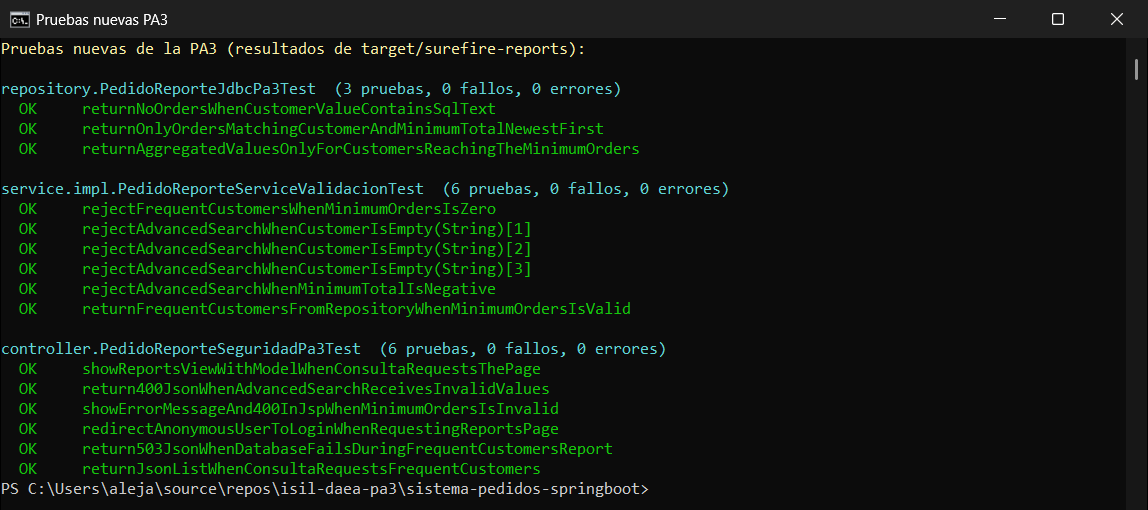
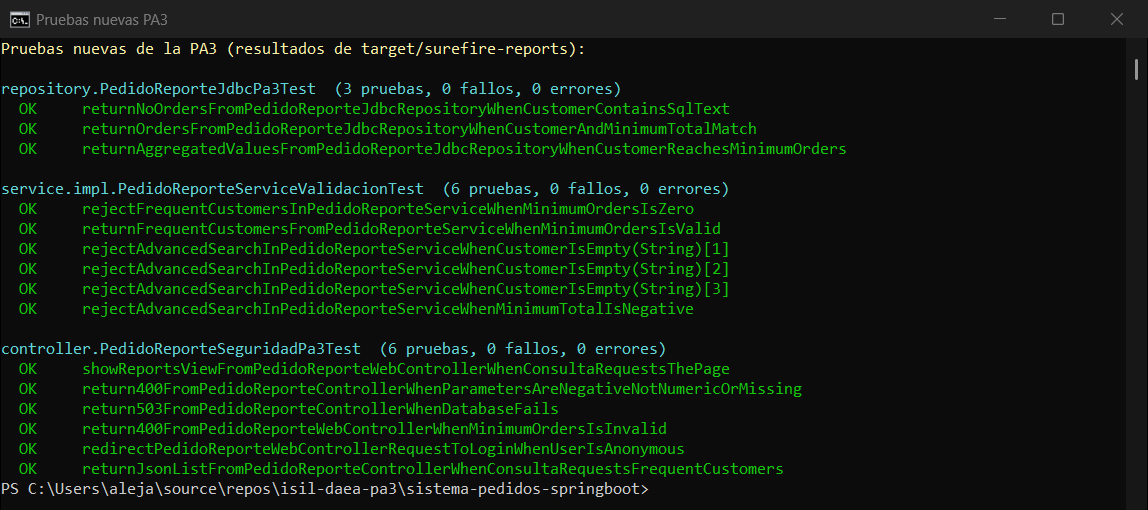
test(pa3): nombres con accion, clase probada y condicion; AAA en pruebas de seguridad
Nuevas capturas de mvn test con los nombres actualizados.

diff --git a/sistema-pedidos-springboot/src/test/java/com/isil/edu/pe/spedidos/controller/PedidoReporteSeguridadPa3Test.java b/sistema-pedidos-springboot/src/test/java/com/isil/edu/pe/spedidos/controller/PedidoReporteSeguridadPa3Test.java
@@ -21,6 +21,7 @@ import org.springframework.dao.DataAccessResourceFailureException;
 import org.springframework.test.context.ActiveProfiles;
 import org.springframework.test.context.bean.override.mockito.MockitoSpyBean;
 import org.springframework.test.web.servlet.MockMvc;
+import org.springframework.test.web.servlet.ResultActions;
 import org.springframework.test.web.servlet.setup.MockMvcBuilders;
 import org.springframework.web.context.WebApplicationContext;
 
@@ -43,73 +44,94 @@ class PedidoReporteSeguridadPa3Test {
   }
 
   @Test
-  @DisplayName("Show reports view with model when CONSULTA requests the page")
-  void showReportsViewWithModelWhenConsultaRequestsThePage() throws Exception {
-    // Arrange / Act / Assert
-    mockMvc.perform(get("/reportes/pedidos").param("minPedidos", "2").with(user("consulta").roles("CONSULTA")))
-        .andExpect(status().isOk())
+  @DisplayName("Show reports view from PedidoReporteWebController when CONSULTA requests the page")
+  void showReportsViewFromPedidoReporteWebControllerWhenConsultaRequestsThePage() throws Exception {
+    // Arrange / Act
+    ResultActions response = mockMvc.perform(get("/reportes/pedidos")
+        .param("minPedidos", "2")
+        .with(user("consulta").roles("CONSULTA")));
+
+    // Assert
+    response.andExpect(status().isOk())
         .andExpect(forwardedUrl("/WEB-INF/views/reportes-pedidos.jsp"))
         .andExpect(model().attributeExists("resumen", "clientesFrecuentes"));
   }
 
   @Test
-  @DisplayName("Redirect anonymous user to login when requesting reports page")
-  void redirectAnonymousUserToLoginWhenRequestingReportsPage() throws Exception {
-    // Arrange / Act / Assert: el servicio no se ejecuta, seguridad corta antes.
-    mockMvc.perform(get("/reportes/pedidos"))
-        .andExpect(status().is3xxRedirection())
+  @DisplayName("Redirect PedidoReporteWebController request to login when user is anonymous")
+  void redirectPedidoReporteWebControllerRequestToLoginWhenUserIsAnonymous() throws Exception {
+    // Arrange / Act
+    ResultActions response = mockMvc.perform(get("/reportes/pedidos"));
+
+    // Assert: el servicio no se ejecuta, seguridad corta antes.
+    response.andExpect(status().is3xxRedirection())
         .andExpect(redirectedUrl("/login"));
   }
 
   @Test
-  @DisplayName("Return JSON list when CONSULTA requests frequent customers")
-  void returnJsonListWhenConsultaRequestsFrequentCustomers() throws Exception {
-    // Arrange / Act / Assert
-    mockMvc.perform(get("/api/v1/pedidos/clientes-frecuentes").param("minPedidos", "1")
-            .with(user("consulta").roles("CONSULTA")))
-        .andExpect(status().isOk())
+  @DisplayName("Return JSON list from PedidoReporteController when CONSULTA requests frequent customers")
+  void returnJsonListFromPedidoReporteControllerWhenConsultaRequestsFrequentCustomers() throws Exception {
+    // Arrange / Act
+    ResultActions response = mockMvc.perform(get("/api/v1/pedidos/clientes-frecuentes")
+        .param("minPedidos", "1")
+        .with(user("consulta").roles("CONSULTA")));
+
+    // Assert
+    response.andExpect(status().isOk())
         .andExpect(jsonPath("$").isArray());
   }
 
   @Test
-  @DisplayName("Return 400 JSON when advanced search receives invalid values")
-  void return400JsonWhenAdvancedSearchReceivesInvalidValues() throws Exception {
-    // Arrange / Act / Assert: valor negativo, texto en lugar de número y parámetro faltante.
-    mockMvc.perform(get("/api/v1/pedidos/busqueda-avanzada").param("cliente", "Ana").param("totalMinimo", "-1")
-            .with(user("consulta").roles("CONSULTA")))
-        .andExpect(status().isBadRequest())
+  @DisplayName("Return 400 from PedidoReporteController when parameters are negative, not numeric or missing")
+  void return400FromPedidoReporteControllerWhenParametersAreNegativeNotNumericOrMissing() throws Exception {
+    // Arrange / Act
+    ResultActions negativo = mockMvc.perform(get("/api/v1/pedidos/busqueda-avanzada")
+        .param("cliente", "Ana").param("totalMinimo", "-1")
+        .with(user("consulta").roles("CONSULTA")));
+    ResultActions noNumerico = mockMvc.perform(get("/api/v1/pedidos/busqueda-avanzada")
+        .param("cliente", "Ana").param("totalMinimo", "abc")
+        .with(user("consulta").roles("CONSULTA")));
+    ResultActions faltante = mockMvc.perform(get("/api/v1/pedidos/clientes-frecuentes")
+        .with(user("consulta").roles("CONSULTA")));
+
+    // Assert
+    negativo.andExpect(status().isBadRequest())
         .andExpect(jsonPath("$.message").value("El total mínimo debe ser mayor o igual a 0."));
-    mockMvc.perform(get("/api/v1/pedidos/busqueda-avanzada").param("cliente", "Ana").param("totalMinimo", "abc")
-            .with(user("consulta").roles("CONSULTA")))
-        .andExpect(status().isBadRequest())
+    noNumerico.andExpect(status().isBadRequest())
         .andExpect(jsonPath("$.status").value(400));
-    mockMvc.perform(get("/api/v1/pedidos/clientes-frecuentes").with(user("consulta").roles("CONSULTA")))
-        .andExpect(status().isBadRequest())
+    faltante.andExpect(status().isBadRequest())
         .andExpect(jsonPath("$.message").value("Falta el parámetro minPedidos."));
   }
 
   @Test
-  @DisplayName("Show error message and 400 in JSP when minimum orders is invalid")
-  void showErrorMessageAnd400InJspWhenMinimumOrdersIsInvalid() throws Exception {
-    // Arrange / Act / Assert
-    mockMvc.perform(get("/reportes/pedidos").param("minPedidos", "0").with(user("consulta").roles("CONSULTA")))
-        .andExpect(status().isBadRequest())
+  @DisplayName("Return 400 from PedidoReporteWebController when minimum orders is invalid")
+  void return400FromPedidoReporteWebControllerWhenMinimumOrdersIsInvalid() throws Exception {
+    // Arrange / Act
+    ResultActions response = mockMvc.perform(get("/reportes/pedidos")
+        .param("minPedidos", "0")
+        .with(user("consulta").roles("CONSULTA")));
+
+    // Assert: la pantalla muestra el error y conserva el resumen.
+    response.andExpect(status().isBadRequest())
         .andExpect(forwardedUrl("/WEB-INF/views/reportes-pedidos.jsp"))
         .andExpect(model().attribute("error", "minPedidos debe ser mayor o igual a 1."))
         .andExpect(model().attributeExists("resumen"));
   }
 
   @Test
-  @DisplayName("Return 503 JSON when database fails during frequent customers report")
-  void return503JsonWhenDatabaseFailsDuringFrequentCustomersReport() throws Exception {
+  @DisplayName("Return 503 from PedidoReporteController when database fails")
+  void return503FromPedidoReporteControllerWhenDatabaseFails() throws Exception {
     // Arrange
     doThrow(new DataAccessResourceFailureException("MySQL detenido"))
         .when(reporteService).listarClientesFrecuentes(anyInt());
 
-    // Act / Assert
-    mockMvc.perform(get("/api/v1/pedidos/clientes-frecuentes").param("minPedidos", "2")
-            .with(user("consulta").roles("CONSULTA")))
-        .andExpect(status().isServiceUnavailable())
+    // Act
+    ResultActions response = mockMvc.perform(get("/api/v1/pedidos/clientes-frecuentes")
+        .param("minPedidos", "2")
+        .with(user("consulta").roles("CONSULTA")));
+
+    // Assert
+    response.andExpect(status().isServiceUnavailable())
         .andExpect(jsonPath("$.message").value("La base de datos no está disponible."));
   }
 }

diff --git a/sistema-pedidos-springboot/src/test/java/com/isil/edu/pe/spedidos/service/impl/PedidoReporteServiceValidacionTest.java b/sistema-pedidos-springboot/src/test/java/com/isil/edu/pe/spedidos/service/impl/PedidoReporteServiceValidacionTest.java
@@ -35,8 +35,8 @@ class PedidoReporteServiceValidacionTest {
   @ParameterizedTest
   @NullSource
   @ValueSource(strings = {"", "   "})
-  @DisplayName("Reject advanced search when customer is empty")
-  void rejectAdvancedSearchWhenCustomerIsEmpty(String cliente) {
+  @DisplayName("Reject advanced search in PedidoReporteService when customer is empty")
+  void rejectAdvancedSearchInPedidoReporteServiceWhenCustomerIsEmpty(String cliente) {
     // Act
     PedidoException error = assertThrows(PedidoException.class,
         () -> service.buscarPedidosPorClienteYTotalMinimo(cliente, BigDecimal.TEN));
@@ -47,8 +47,8 @@ class PedidoReporteServiceValidacionTest {
   }
 
   @Test
-  @DisplayName("Reject advanced search when minimum total is negative")
-  void rejectAdvancedSearchWhenMinimumTotalIsNegative() {
+  @DisplayName("Reject advanced search in PedidoReporteService when minimum total is negative")
+  void rejectAdvancedSearchInPedidoReporteServiceWhenMinimumTotalIsNegative() {
     // Arrange
     BigDecimal negativo = new BigDecimal("-1");
 
@@ -62,8 +62,8 @@ class PedidoReporteServiceValidacionTest {
   }
 
   @Test
-  @DisplayName("Reject frequent customers when minimum orders is zero")
-  void rejectFrequentCustomersWhenMinimumOrdersIsZero() {
+  @DisplayName("Reject frequent customers in PedidoReporteService when minimum orders is zero")
+  void rejectFrequentCustomersInPedidoReporteServiceWhenMinimumOrdersIsZero() {
     // Act
     PedidoException error = assertThrows(PedidoException.class, () -> service.listarClientesFrecuentes(0));
 
@@ -73,8 +73,8 @@ class PedidoReporteServiceValidacionTest {
   }
 
   @Test
-  @DisplayName("Return frequent customers from repository when minimum orders is valid")
-  void returnFrequentCustomersFromRepositoryWhenMinimumOrdersIsValid() {
+  @DisplayName("Return frequent customers from PedidoReporteService when minimum orders is valid")
+  void returnFrequentCustomersFromPedidoReporteServiceWhenMinimumOrdersIsValid() {
     // Arrange
     when(repository.listarClientesFrecuentes(2)).thenReturn(List.of(
         new ClienteFrecuenteProjection("Ana Torres", 2, 3, new BigDecimal("5120.00"), new BigDecimal("2560.00"))));

diff --git a/sistema-pedidos-springboot/src/test/java/com/isil/edu/pe/spedidos/repository/PedidoReporteJdbcPa3Test.java b/sistema-pedidos-springboot/src/test/java/com/isil/edu/pe/spedidos/repository/PedidoReporteJdbcPa3Test.java
@@ -37,8 +37,8 @@ class PedidoReporteJdbcPa3Test {
   }
 
   @Test
-  @DisplayName("Return only orders matching customer and minimum total, newest first")
-  void returnOnlyOrdersMatchingCustomerAndMinimumTotalNewestFirst() {
+  @DisplayName("Return orders from PedidoReporteJdbcRepository when customer and minimum total match")
+  void returnOrdersFromPedidoReporteJdbcRepositoryWhenCustomerAndMinimumTotalMatch() {
     // Arrange
     insertarPedido("Ana Torres", "MON-001", "Monitor", "850.00", 2, "1700.00");
 
@@ -53,8 +53,8 @@ class PedidoReporteJdbcPa3Test {
   }
 
   @Test
-  @DisplayName("Return no orders when customer value contains SQL text")
-  void returnNoOrdersWhenCustomerValueContainsSqlText() {
+  @DisplayName("Return no orders from PedidoReporteJdbcRepository when customer contains SQL text")
+  void returnNoOrdersFromPedidoReporteJdbcRepositoryWhenCustomerContainsSqlText() {
     // Arrange
     String intento = "' OR '1'='1";
 
@@ -66,8 +66,8 @@ class PedidoReporteJdbcPa3Test {
   }
 
   @Test
-  @DisplayName("Return aggregated values only for customers reaching the minimum orders")
-  void returnAggregatedValuesOnlyForCustomersReachingTheMinimumOrders() {
+  @DisplayName("Return aggregated values from PedidoReporteJdbcRepository when customer reaches minimum orders")
+  void returnAggregatedValuesFromPedidoReporteJdbcRepositoryWhenCustomerReachesMinimumOrders() {
     // Arrange: Ana tiene 2 pedidos y Carlos solo 1.
     int minPedidos = 2;
 
